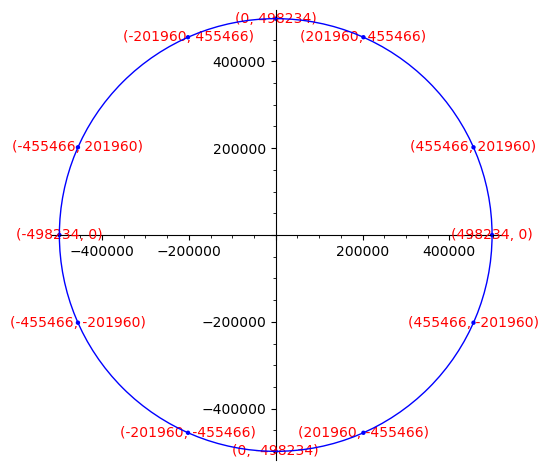
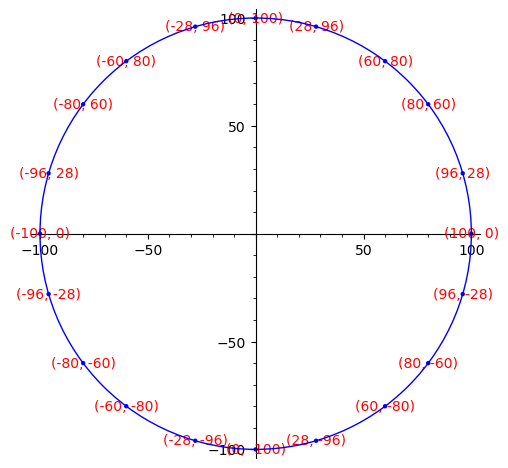
add READMEs

Changed region(s): [[0.0, 0.0, 1.0, 0.9872], [0.6201, 0.5085, 0.7382, 0.5684], [0.2657, 0.5085, 0.4134, 0.5684]]

diff --git a/README.md b/README.md
@@ -1,0 +1,7 @@
+# Cool Graphs!
+Here you'll find all sorts of cool graphs!
+
+- Algebraic Geometry\
+[Plotting Integral Points on a Circle](https://github.com/pranavsetpal/cool-graphs/tree/main/integral-points-on-circle)
+## Usage
+To run the code locally, you'll need to use `sagemath`. Installation intructions are present [here](https://doc.sagemath.org/html/en/installation/index.html)

diff --git a/integral-points-on-circle/README.md b/integral-points-on-circle/README.md
@@ -1,0 +1,5 @@
+# Plotting Integral Points on a Circle
+I used gaussian prime factorization to find the points for the circle
+
+As a example, here's a circle with a radius of 100 units
+![](https://github.com/pranavsetpal/cool-graphs/tree/main/integral-points-on-circle/plot.png)
